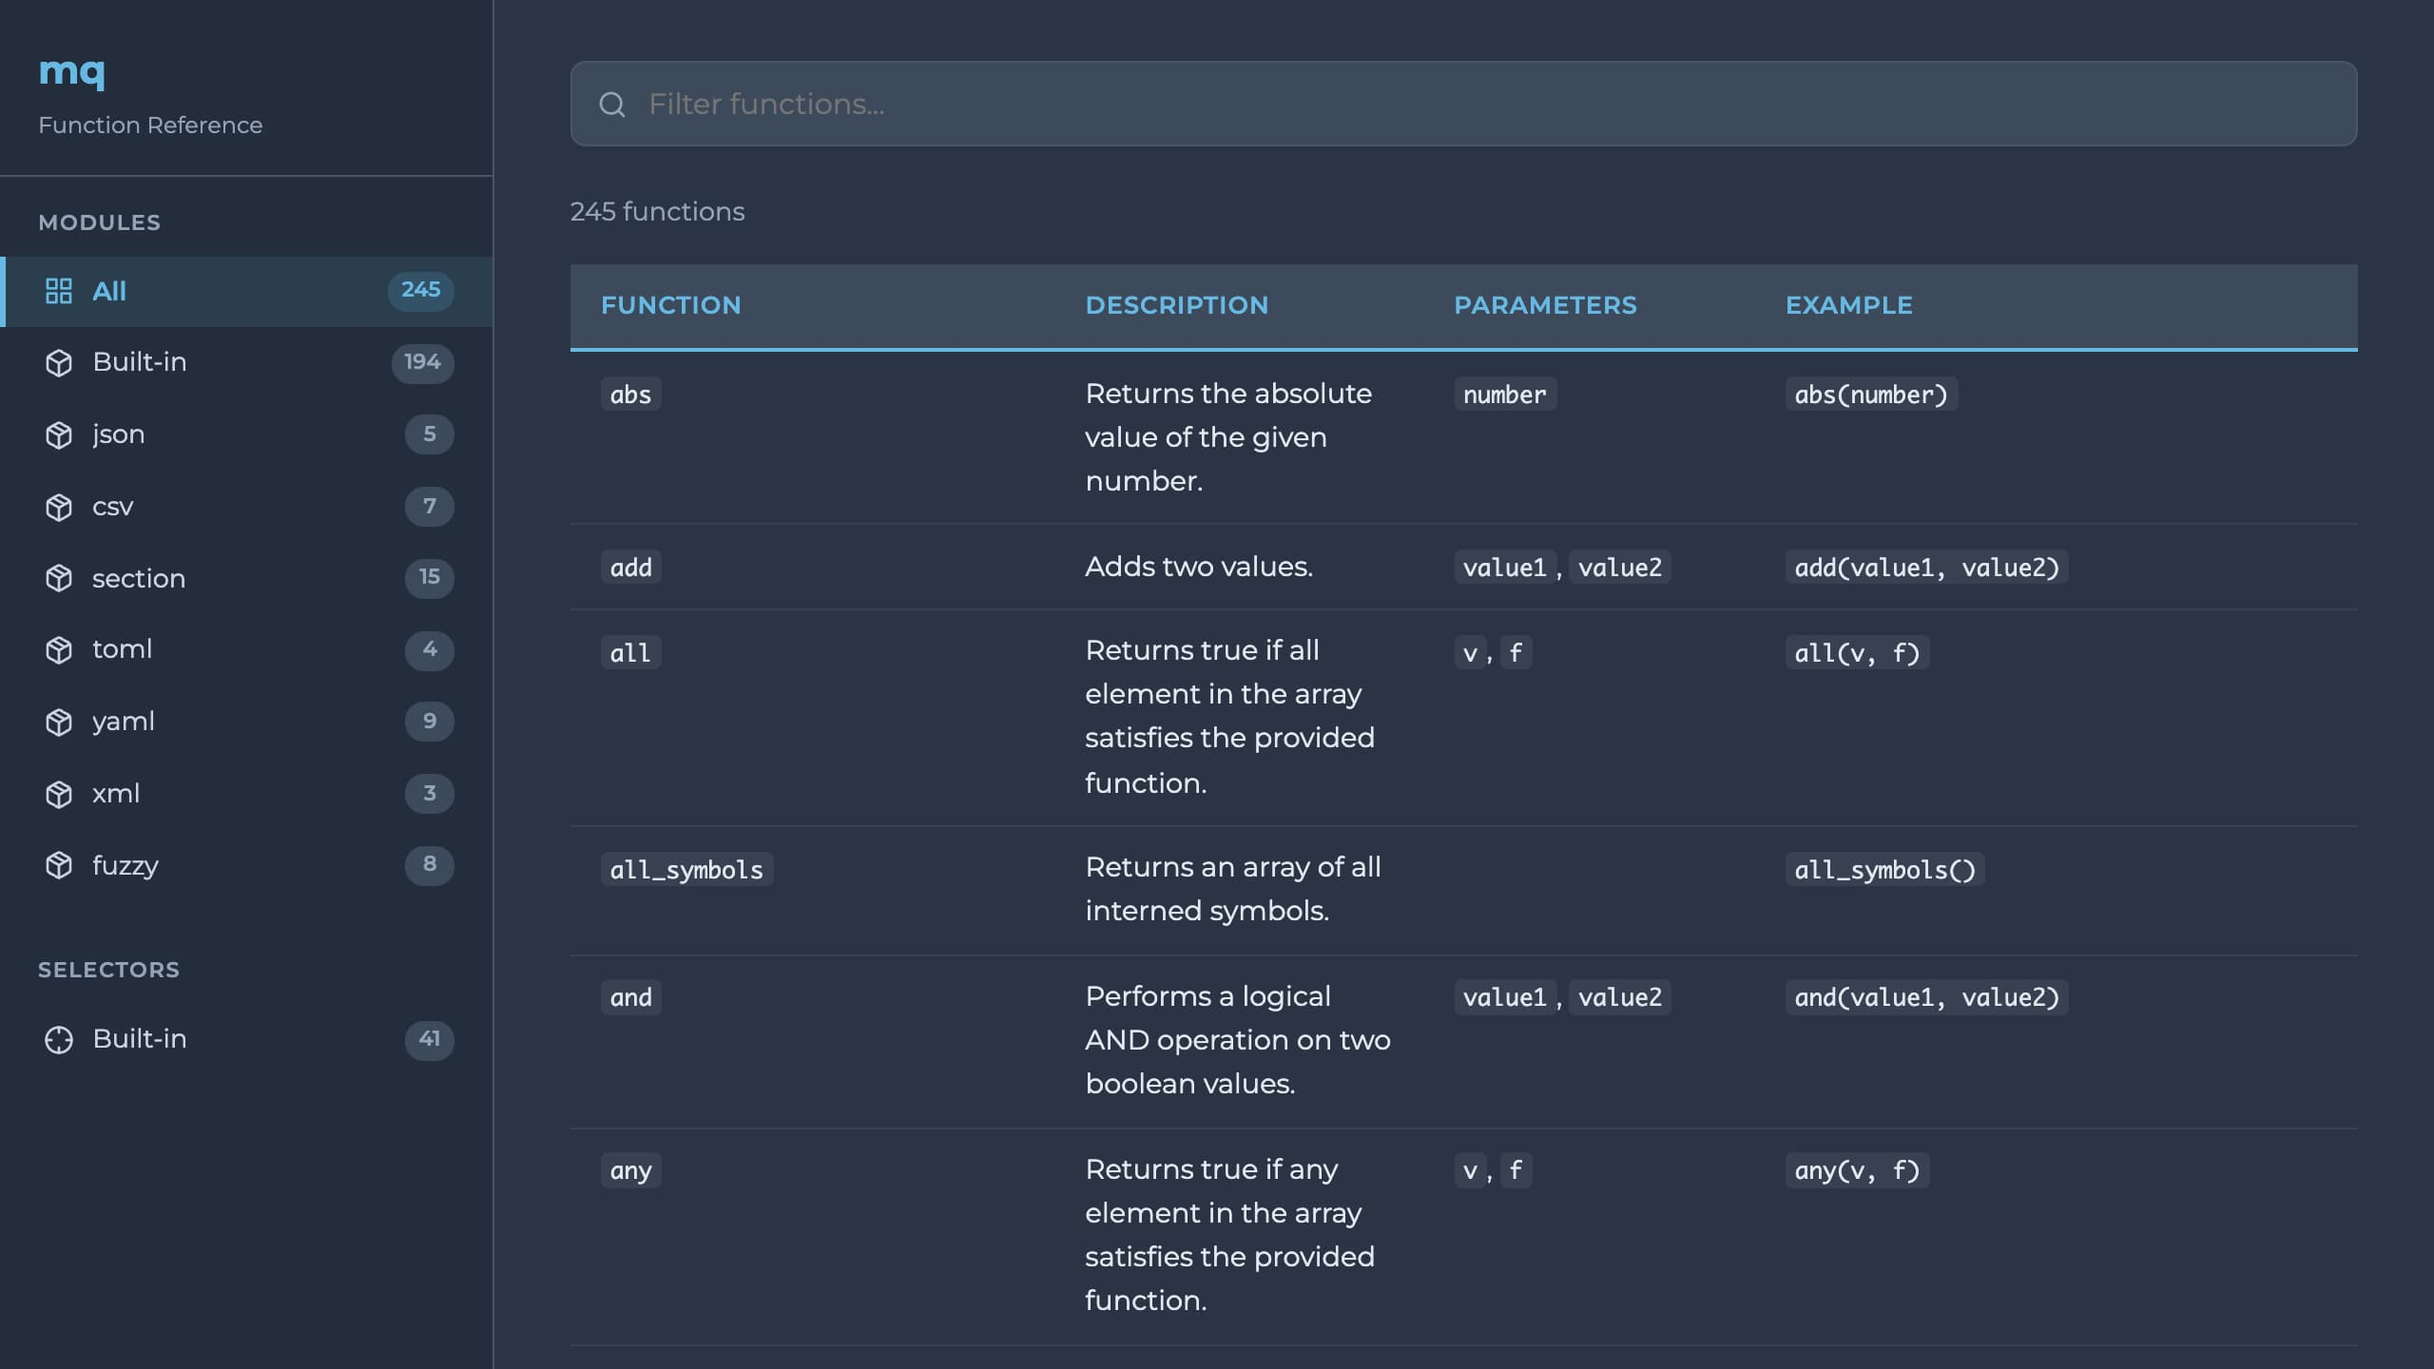
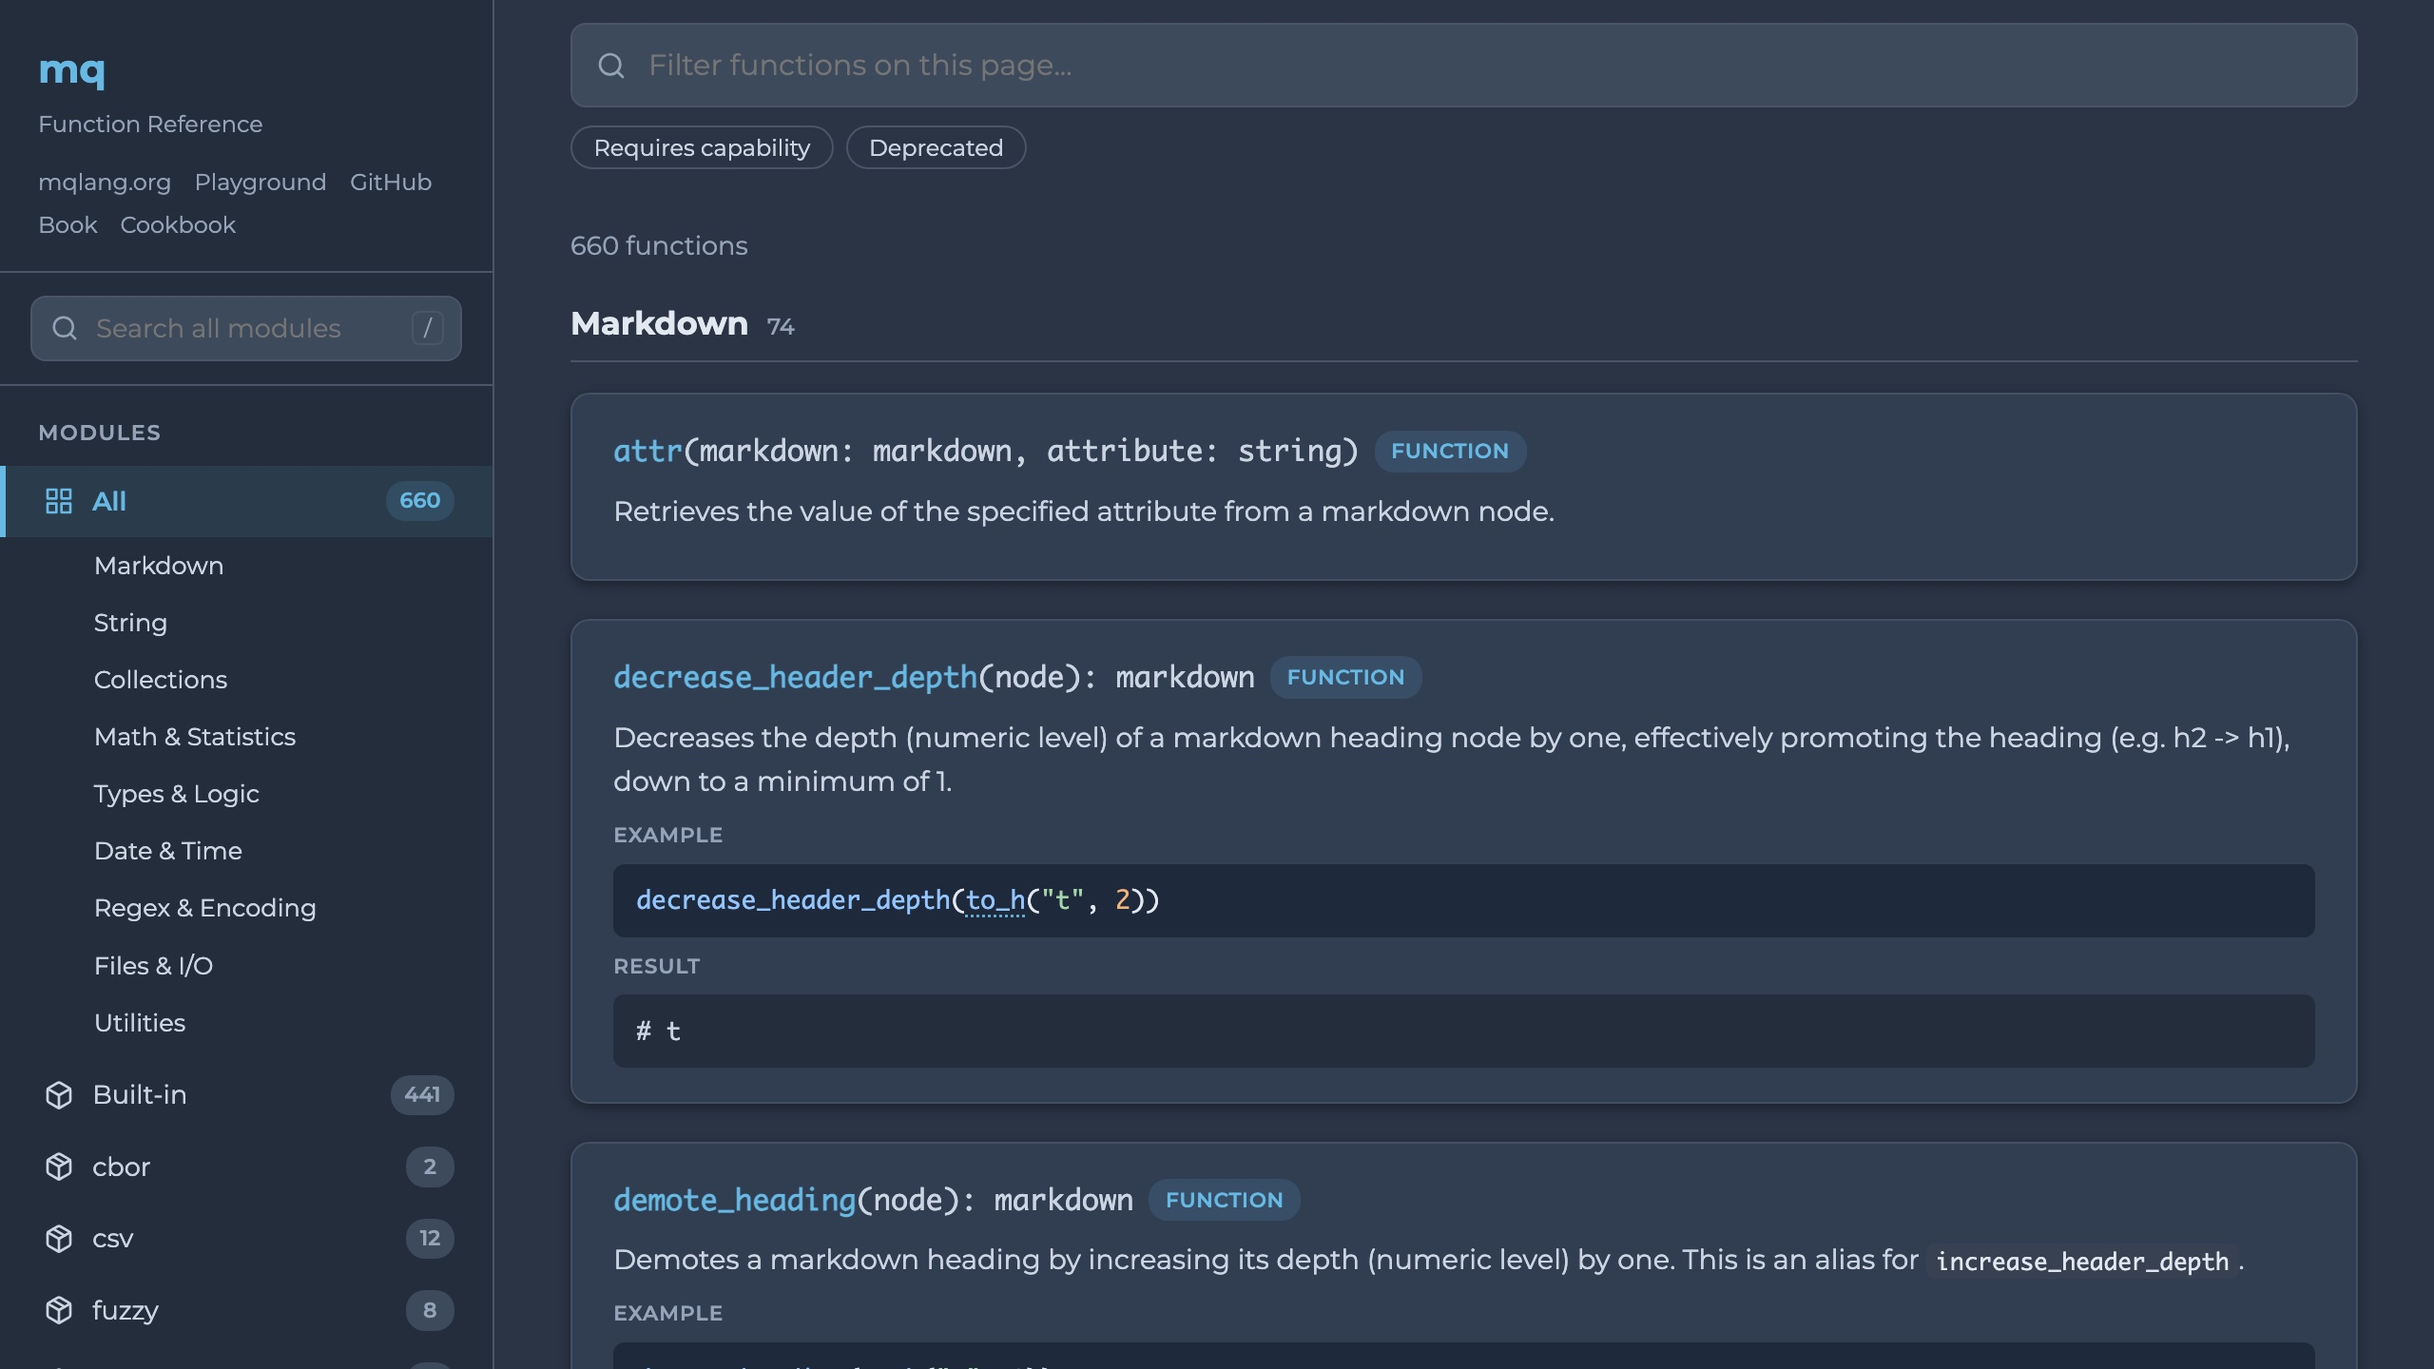
feat(html): move categories to the sidebar and drop the edit link
- Merge the 17 built-in categories into 9 so the list stays short
- List a grouped page's categories under its sidebar link instead of a
  jump bar above the entries; A-Z pages keep their letter bar
- Scroll to the category heading rather than its section, which hid the
  heading behind the sticky toolbar
- Remove the "Edit on GitHub" link from module headers
- Update the README description and screenshot

diff --git a/src/docs.js b/src/docs.js
@@ -72,6 +72,30 @@
     };
   });
 
+  // Grouped pages list their categories under their sidebar link instead of in a bar above the
+  // entries; the sidebar shows them only while that link is the active one.
+  pages.forEach(function (page) {
+    var groups = $$(".entry-group:not(.entry-group-module)", page);
+    var link = links.find(function (l) {
+      return l.getAttribute("data-module") === page.id;
+    });
+    if (!groups.length || !link) return;
+    var sub = document.createElement("div");
+    sub.className = "sidebar-sub";
+    sub.setAttribute("aria-label", "Categories");
+    groups.forEach(function (group) {
+      var title = $(".group-title", group).firstChild.textContent;
+      var a = document.createElement("a");
+      a.className = "sidebar-sub-link";
+      a.href = "#";
+      a.setAttribute("data-group", title);
+      a.textContent = title;
+      sub.appendChild(a);
+    });
+    link.parentNode.insertBefore(sub, link.nextSibling);
+    page._subnav = sub;
+  });
+
   var query = "";
   var results = [];
   var selected = -1;
@@ -463,7 +487,7 @@
     });
   });
 
-  // ---- Jump bar: A–Z letters, or categories on grouped pages ----
+  // ---- Jump bar: A–Z letters, or categories in the sidebar on grouped pages ----
 
   function firstVisible(page, group) {
     return $('.entry[data-group="' + CSS.escape(group) + '"]:not([hidden])', page);
@@ -471,13 +495,14 @@
 
   // The element a jump link scrolls to: the category heading, or the first card of the letter.
   function jumpTarget(first) {
-    return first.closest(".entry-group") || first;
+    var group = first.closest(".entry-group");
+    return group ? $(".group-title", group) : first;
   }
 
   // Dim groups with no visible entry, highlight the one being read.
   function updateJumpBar() {
     var page = activePage();
-    var nav = page && $(".az-nav", page);
+    var nav = page && ($(".az-nav", page) || page._subnav);
     if (!nav) return;
 
     // The toolbar is sticky and its height changes when the bar wraps; scroll-margin follows it.
@@ -568,10 +593,11 @@
         },
         function () {}
       );
-    } else if (link.closest(".az-nav")) {
+    } else if (link.closest(".az-nav, .sidebar-sub")) {
       e.preventDefault();
       var first = firstVisible(activePage(), link.getAttribute("data-group"));
       if (first) jumpTarget(first).scrollIntoView({ block: "start" });
+      if (link.closest(".sidebar-sub")) closeSidebar();
     }
   });
 

diff --git a/src/docs.css b/src/docs.css
@@ -115,6 +115,35 @@ body {
   font-weight: 600;
 }
 
+/* Categories of the open grouped page, nested under its link */
+.sidebar-sub { display: none; padding-bottom: 0.25rem; }
+
+.sidebar-link.active + .sidebar-sub { display: block; }
+
+.sidebar-sub-link {
+  border-left: 3px solid transparent;
+  color: var(--text-secondary);
+  display: block;
+  font-size: 0.8rem;
+  padding: 0.3rem 1.25rem 0.3rem 2.9rem;
+  text-decoration: none;
+}
+
+.sidebar-sub-link:hover {
+  background-color: rgba(103, 184, 227, 0.06);
+  color: var(--text-primary);
+}
+
+.sidebar-sub-link.current {
+  color: var(--accent-primary);
+  font-weight: 600;
+}
+
+.sidebar-sub-link.disabled {
+  opacity: 0.35;
+  pointer-events: none;
+}
+
 .sidebar-icon {
   display: flex;
   align-items: center;

diff --git a/src/category.rs b/src/category.rs
@@ -18,11 +18,6 @@ const CATEGORIES: &[(&str, &[&str])] = &[
             "to_image", "to_link", "to_markdown", "to_markdown_string", "to_math", "to_math_inline",
             "to_md_fragment", "to_md_html", "to_md_list", "to_md_name", "to_md_table_align",
             "to_md_table_cell", "to_md_table_row", "to_md_text", "to_mdx", "to_strong", "to_text",
-        ],
-    ),
-    (
-        "Markdown Checks",
-        &[
             "is_callout", "is_code", "is_em", "is_h", "is_h1", "is_h2", "is_h3", "is_h4", "is_h5",
             "is_h6", "is_h_level", "is_html", "is_list", "is_mdx", "is_mdx_flow_expression",
             "is_mdx_js_esm", "is_mdx_jsx_flow_element", "is_mdx_jsx_text_element",
@@ -44,7 +39,7 @@ const CATEGORIES: &[(&str, &[&str])] = &[
         ],
     ),
     (
-        "Array & Collection",
+        "Collections",
         &[
             "all", "any", "chunk_by", "chunks", "collect", "combinations", "compact", "compact_map",
             "difference", "each", "fill", "filter", "find", "find_index", "first", "flat_map",
@@ -54,11 +49,6 @@ const CATEGORIES: &[(&str, &[&str])] = &[
             "select", "skip", "skip_while", "sort", "sort_by", "sort_natural", "split_records", "take",
             "take_while", "tally", "token_compress", "transpose", "union", "uniq", "unique_by", "unzip",
             "zip",
-        ],
-    ),
-    (
-        "Dict & Path",
-        &[
             "del", "del_path", "del_paths", "entries", "from_entries", "frontmatter", "get", "get_or",
             "get_path", "has", "index_by", "insert", "invert", "keys", "leaf_entries", "map_values",
             "merge_defaults", "merge_with", "omit", "paths", "pick", "pluck", "set", "set_path",
@@ -79,23 +69,13 @@ const CATEGORIES: &[(&str, &[&str])] = &[
         ],
     ),
     (
-        "Comparison & Logic",
+        "Types & Logic",
         &[
             "and", "between", "coalesce", "complement", "eq", "gt", "gte", "identity", "in", "lt",
             "lte", "ne", "not", "or",
-        ],
-    ),
-    (
-        "Type Checks",
-        &[
             "arrays", "booleans", "bytes", "dicts", "is_array", "is_blank", "is_bool", "is_bytes",
             "is_coroutine", "is_dict", "is_empty", "is_markdown", "is_none", "is_number", "is_string",
             "iterables", "markdowns", "nones", "numbers", "scalars", "strings", "type",
-        ],
-    ),
-    (
-        "Conversion",
-        &[
             "array", "convert", "dict", "to_array", "to_boolean", "to_bytes", "to_coroutine",
             "to_number", "to_number_or", "to_string",
         ],
@@ -108,15 +88,10 @@ const CATEGORIES: &[(&str, &[&str])] = &[
         ],
     ),
     (
-        "Regex & Matching",
+        "Regex & Encoding",
         &[
             "capture", "glob_match", "gsub", "is_not_regex_match", "is_regex_match", "redact",
             "regex_escape", "regex_match", "regex_replace", "replace_prose", "scan", "test",
-        ],
-    ),
-    (
-        "Encoding & Hashing",
-        &[
             "base64", "base64d", "base64d_bytes", "base64url", "base64urld", "base64urld_bytes",
             "decode", "encode", "from_hex", "hexdump", "html_escape", "html_unescape",
             "markdown_escape", "md5", "pack", "sha256", "sha512", "shell_quote", "to_hex", "unpack",
@@ -124,14 +99,9 @@ const CATEGORIES: &[(&str, &[&str])] = &[
         ],
     ),
     (
-        "Paths & Files",
+        "Files & I/O",
         &[
             "basename", "dirname", "extname", "path_join", "safe_filename", "stem",
-        ],
-    ),
-    (
-        "I/O & Network",
-        &[
             "close", "collection", "env", "file_exists", "file_info", "file_size", "http", "http_all",
             "http_delete", "http_delete_json", "http_get", "http_get_json", "http_head", "http_lines",
             "http_patch", "http_patch_json", "http_post", "http_post_json", "http_put", "http_put_json",
@@ -141,20 +111,10 @@ const CATEGORIES: &[(&str, &[&str])] = &[
         ],
     ),
     (
-        "Random & IDs",
+        "Utilities",
         &[
             "random_string", "sample", "shuffle", "uuid", "uuid_v4", "uuid_v7",
-        ],
-    ),
-    (
-        "Functional",
-        &[
             "comp", "flip", "juxt", "partial", "tap",
-        ],
-    ),
-    (
-        "Debug & Errors",
-        &[
             "all_symbols", "breakpoint", "debug", "error", "halt", "halt_error", "inspect", "intern",
         ],
     ),
@@ -178,9 +138,8 @@ pub const fn builtin_category_count() -> usize {
 /// Prefix rules for names added to mq after this table was written.
 fn fallback(name: &str) -> Option<usize> {
     let title = match name {
-        _ if name.starts_with("is_") => "Type Checks",
-        _ if name.starts_with("to_") => "Conversion",
-        _ if name.starts_with("http_") || name.starts_with("read_") => "I/O & Network",
+        _ if name.starts_with("is_") || name.starts_with("to_") => "Types & Logic",
+        _ if name.starts_with("http_") || name.starts_with("read_") => "Files & I/O",
         _ => return None,
     };
     CATEGORIES.iter().position(|(t, _)| *t == title)
@@ -199,7 +158,7 @@ mod tests {
     #[test]
     fn unknown_names_use_prefix_rules_then_other() {
         assert_eq!(builtin_category("abs").1, "Math & Statistics");
-        assert_eq!(builtin_category("is_something_new").1, "Type Checks");
+        assert_eq!(builtin_category("is_something_new").1, "Types & Logic");
         assert_eq!(builtin_category("frobnicate"), (CATEGORIES.len(), "Other"));
     }
 }

diff --git a/src/lib.rs b/src/lib.rs
@@ -826,8 +826,7 @@ fn render_module_source_html(module_name: &str) -> String {
     let path = format!("crates/mq-lang/modules/{module_name}.mq");
     format!(
         "<p class=\"module-source\">Source: \
-         <a href=\"{REPO_URL}/blob/v{}/{path}\" target=\"_blank\" rel=\"noopener\">{module_name}.mq</a>\
-         <a href=\"{REPO_URL}/edit/main/{path}\" target=\"_blank\" rel=\"noopener\">Edit on GitHub</a></p>",
+         <a href=\"{REPO_URL}/blob/v{}/{path}\" target=\"_blank\" rel=\"noopener\">{module_name}.mq</a></p>",
         mq_version()
     )
 }
@@ -959,7 +958,7 @@ fn render_module_intro_html(m: &ModuleEntry) -> String {
     format!("<div class=\"module-intro\">{desc}{source}{examples}</div>")
 }
 
-/// Jump bar for a page: one link per group (a category, or a letter) that has an entry.
+/// Jump bar for an A–Z page: one link per letter that has an entry.
 fn render_jump_bar_html(groups: &[String], label: &str) -> String {
     let links = groups
         .iter()
@@ -1046,8 +1045,10 @@ fn build_entries_page(opts: &PageOptions<'_>, items: &[&HtmlItem<'_>], index: &L
         sections
             .iter()
             .map(|(group, members)| {
+                // A module's own heading (on the "All" page) is already a sidebar link.
+                let module_class = if members[0].rank >= builtin_category_count() { " entry-group-module" } else { "" };
                 format!(
-                    "<section class=\"entry-group\">\n\
+                    "<section class=\"entry-group{module_class}\">\n\
                      <h2 class=\"group-title\">{}<span class=\"group-count\">{}</span></h2>\n\
                      {}\n\
                      </section>",
@@ -1067,8 +1068,9 @@ fn build_entries_page(opts: &PageOptions<'_>, items: &[&HtmlItem<'_>], index: &L
         sections.iter().map(|(group, members)| entries_box_html(group, members, false, index)).join("\n")
     };
 
-    let jump_label = if grouped { "Jump to category" } else { "Jump to letter" };
-    let jump_bar = render_jump_bar_html(&groups, jump_label);
+    // Categories are listed under the page's sidebar link (built by the script); only the
+    // A–Z pages need a bar of their own.
+    let jump_bar = if grouped { String::new() } else { render_jump_bar_html(&groups, "Jump to letter") };
     let chips = render_chips_html(
         false,
         items.iter().any(|item| item.entry.capability.is_some()),
@@ -1503,7 +1505,7 @@ mod tests {
         let csv = render_module_source_html("csv");
         assert!(csv.contains("/blob/v"));
         assert!(csv.contains("/crates/mq-lang/modules/csv.mq\""));
-        assert!(csv.contains("/edit/main/crates/mq-lang/modules/csv.mq"));
+        assert!(!csv.contains("/edit/"));
 
         assert!(render_module_source_html("Built-in").is_empty());
         assert!(render_module_source_html("my/file.mq").is_empty());
@@ -1520,9 +1522,9 @@ mod tests {
 
         // Built-ins sit under category headings, other modules under their own name.
         assert!(html.contains("<h2 class=\"group-title\">Math &amp; Statistics<span"));
-        assert!(html.contains("<h2 class=\"group-title\">Type Checks<span"));
+        assert!(html.contains("<h2 class=\"group-title\">Types &amp; Logic<span"));
         assert!(html.contains("<h2 class=\"group-title\">csv<span"));
-        assert!(html.contains("data-group=\"Type Checks\""));
+        assert!(html.contains("data-group=\"Types &amp; Logic\""));
         // Deprecated entries get a warning card and class; selectors stay A–Z.
         assert!(html.contains("<div class=\"entry-warning\" role=\"note\"><strong>Deprecated</strong>"));
         assert!(html.contains("class=\"entry entry-deprecated\""));
@@ -1532,10 +1534,11 @@ mod tests {
             "https://mqlang.org/playground",
             "https://mqlang.org/book/cookbook",
             "https://mqlang.org/llms.txt",
-            "/edit/main/crates/mq-lang/modules/csv.mq",
+            "/blob/v",
             "id=\"globalSearch\"",
         ] {
             assert!(html.contains(expected), "{expected} missing");
         }
+        assert!(!html.contains("Edit on GitHub"));
     }
 }

diff --git a/README.md b/README.md
@@ -9,7 +9,7 @@ A documentation generator for [mq](https://github.com/harehare/mq) functions, ma
 - Generates documentation for functions, macros, and selectors, backed by [`mq-help`](https://crates.io/crates/mq-help)'s unified catalog — the same one `mq help` uses
 - Every function/selector shows its real, CI-verified examples (input query + actual output), return type, required capability (e.g. `file-io`, `http`), and originating module
 - Multiple output formats: Markdown, plain text, HTML, and JSON
-- HTML output includes sidebar navigation with deep links (`#csv::csv_parse`), cross-module search (`/` or Ctrl+K, kept in `?q=`), category/A–Z jump bar, syntax-highlighted example blocks, function cross-links, capability/deprecation badges, and responsive design
+- HTML output includes sidebar navigation with deep links (`#csv::csv_parse`), cross-module search (`/` or Ctrl+K, kept in `?q=`), categories nested under the sidebar entry (A–Z jump bar on other pages), syntax-highlighted example blocks, function cross-links, capability/deprecation badges, and responsive design
 - Supports built-in modules, custom `.mq` files (with real doc-comment-derived examples), and loadable modules (e.g., `csv`, `json`)
 - Available as both a CLI tool and a library
 
